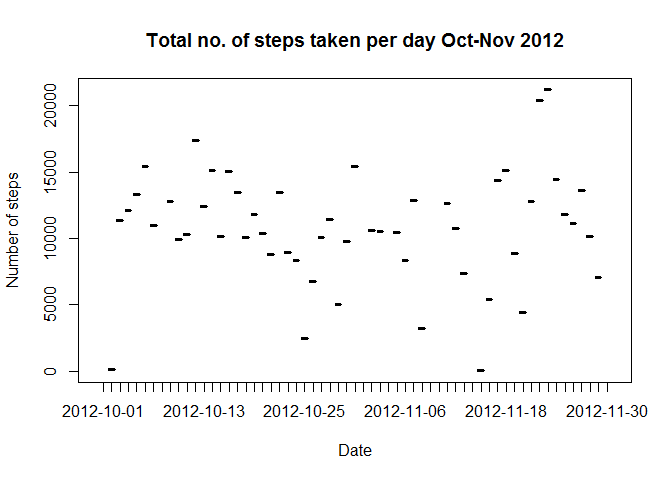
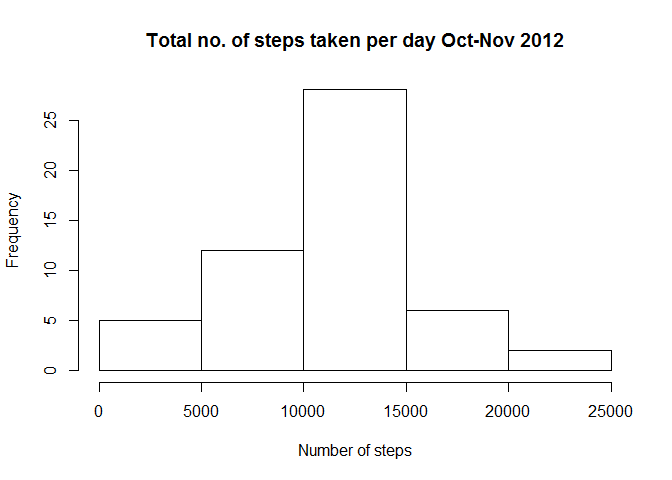
13 Aug 2015 submission

diff --git a/PA1_template.html b/PA1_template.html
@@ -74,12 +74,11 @@ activity_Is_NA &lt;- activity[is.na(activity$steps),]</code></pre>
 <div id="histogram-of-the-total-number-of-steps-taken-each-day" class="section level4">
 <h4>1. Histogram of the total number of steps taken each day</h4>
 <pre class="r"><code>NumOfSteps &lt;- aggregate(steps ~ date, activity_No_NA, sum)
-plot(NumOfSteps
-     , type=&quot;h&quot;
+ 
+hist(NumOfSteps$steps
      , main =&quot;Total no. of steps taken per day Oct-Nov 2012&quot;
-     , xlab=&quot;Date&quot;
-     , ylab=&quot;Number of steps&quot;)</code></pre>
[1 lines of base64/hex data omitted]
+     , xlab=&quot;Number of steps&quot;)</code></pre>
[1 lines of base64/hex data omitted]
 </div>
 <div id="calculate-and-report" class="section level4">
 <h4>2.Calculate and report</h4>
@@ -124,12 +123,12 @@ plot(NumOfSteps2
 <div id="make-a-histogram-calculate-and-report" class="section level4">
 <h4>4. Make a histogram, calculate and report</h4>
 <pre class="r"><code>NumOfSteps2 &lt;- aggregate(steps ~ date, activity2, sum)
-plot(NumOfSteps2
-     , type=&quot;h&quot;
+par(ps = 12, cex = 1, cex.main = 1)
+hist(NumOfSteps2$steps
      , main =&quot;Total no of steps taken per day (missing data was filled with avg interval)&quot;
-     , xlab=&quot;Date&quot;
-     , ylab=&quot;Number of steps&quot;)</code></pre>
[1 lines of base64/hex data omitted]
+     , xlab=&quot;Number of steps&quot;
+     , col=&quot;light blue&quot;)</code></pre>
[1 lines of base64/hex data omitted]
 <pre class="r"><code>MeanOfSteps2 &lt;- as.integer(mean(NumOfSteps2$steps))
 MedianOfSteps2 &lt;- as.integer(median(NumOfSteps2$steps))</code></pre>
 <p>The mean and median of total number of steps taken per day (missing data was filled with average interval value) are 10766 and 10766.</p>

diff --git a/PA1_template.md b/PA1_template.md
@@ -22,11 +22,10 @@ activity_Is_NA <- activity[is.na(activity$steps),]
 
 ```r
 NumOfSteps <- aggregate(steps ~ date, activity_No_NA, sum)
-plot(NumOfSteps
-     , type="h"
+ 
+hist(NumOfSteps$steps
      , main ="Total no. of steps taken per day Oct-Nov 2012"
-     , xlab="Date"
-     , ylab="Number of steps")
+     , xlab="Number of steps")
 ```
 
 ![](PA1_template_files/figure-html/unnamed-chunk-2-1.png) 
@@ -87,11 +86,11 @@ activity2 <- rbind(activity_No_NA, activity_Is_NA)
 
 ```r
 NumOfSteps2 <- aggregate(steps ~ date, activity2, sum)
-plot(NumOfSteps2
-     , type="h"
+par(ps = 12, cex = 1, cex.main = 1)
+hist(NumOfSteps2$steps
      , main ="Total no of steps taken per day (missing data was filled with avg interval)"
-     , xlab="Date"
-     , ylab="Number of steps")
+     , xlab="Number of steps"
+     , col="light blue")
 ```
 
 ![](PA1_template_files/figure-html/unnamed-chunk-9-1.png) 
